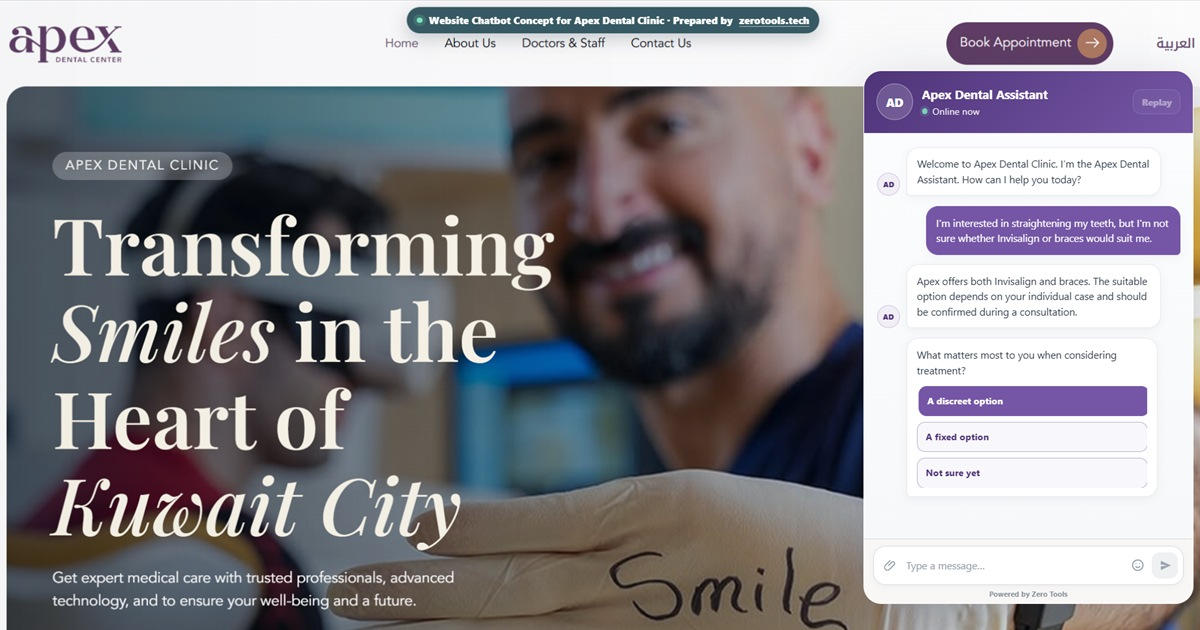
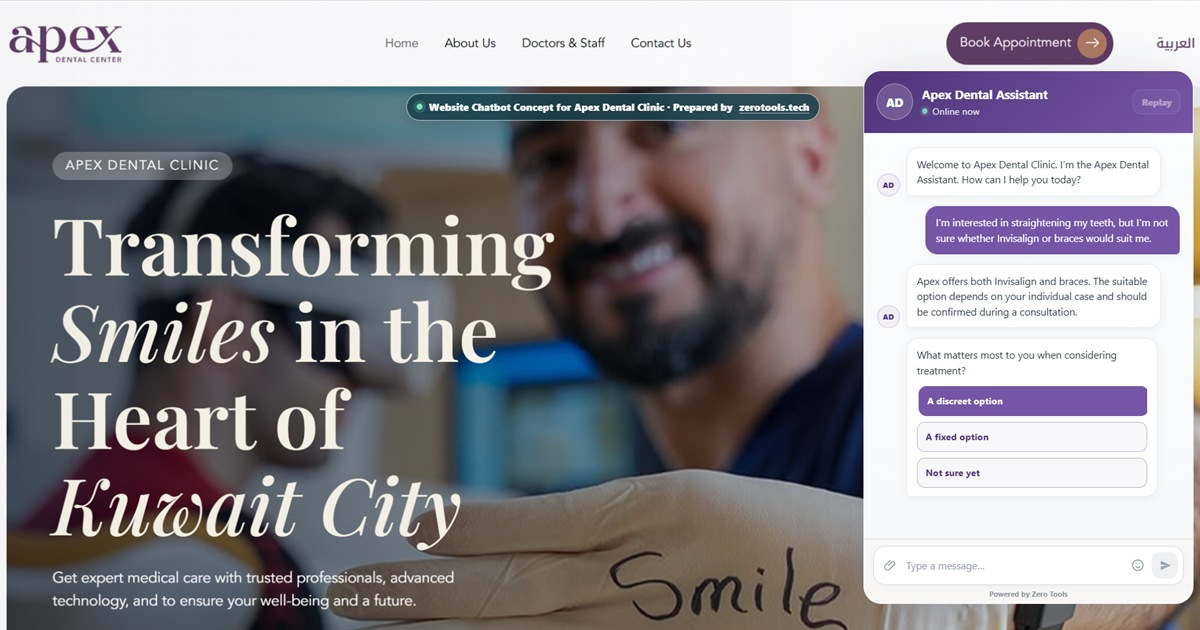
Refine Apex concept attribution and preview

diff --git a/demo/apex-dental-center-chatbot-concept/index.html b/demo/apex-dental-center-chatbot-concept/index.html
@@ -95,7 +95,7 @@
     .site-mockup.is-missing { display: none; }
     .presentation::after { content: ""; position: absolute; inset: 0; z-index: 1; pointer-events: none; background: linear-gradient(90deg,rgba(13,20,28,.04),rgba(13,20,28,.01)); }
 
-    .concept-tools { position: fixed; z-index: 4; top: 8px; left: 50%; display: inline-flex; align-items: center; transform: translateX(-50%); }
+    .concept-tools { position: fixed; z-index: 4; top: clamp(112px,13.2svh,144px); left: 50%; display: inline-flex; align-items: center; transform: translateX(-50%); }
     .concept-label { display: inline-flex; align-items: center; gap: 8px; margin: 0; padding: 8px 12px; border: 1px solid rgba(255,255,255,.65); border-radius: 999px; color: #fff; background: rgba(23,63,74,.86); box-shadow: 0 7px 20px rgba(15,23,42,.2); font-size: 12px; font-weight: 800; letter-spacing: .01em; backdrop-filter: blur(8px); }
     .concept-label::before { content: ""; width: 7px; height: 7px; border-radius: 50%; background: #7de2bc; box-shadow: 0 0 0 4px rgba(125,226,188,.17); }
     .concept-label a { color: inherit; text-decoration: underline; text-decoration-color: rgba(255,255,255,.58); text-underline-offset: 2px; }
